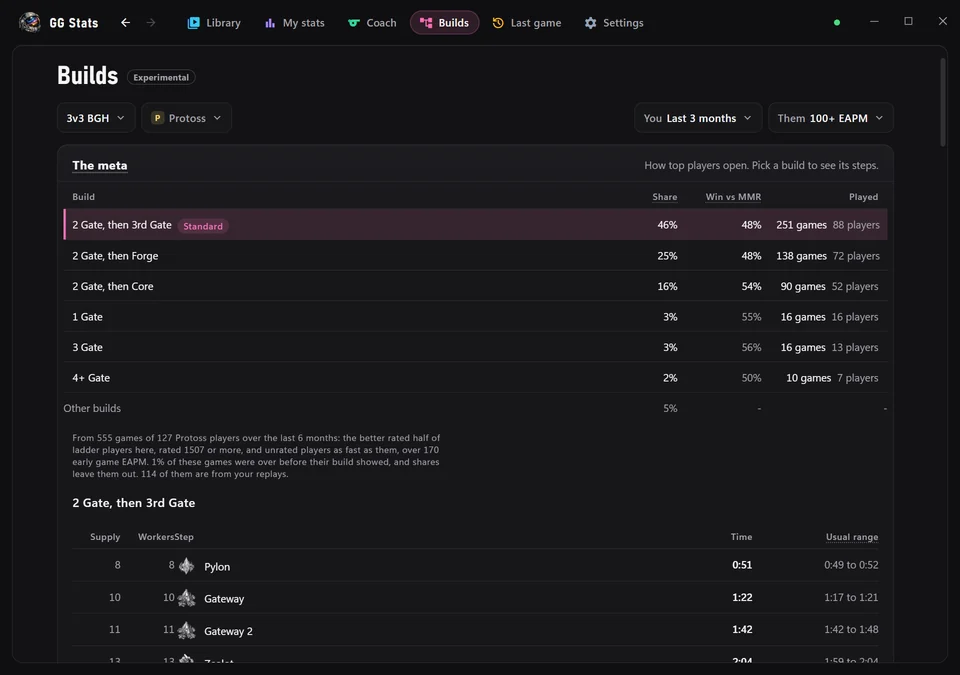
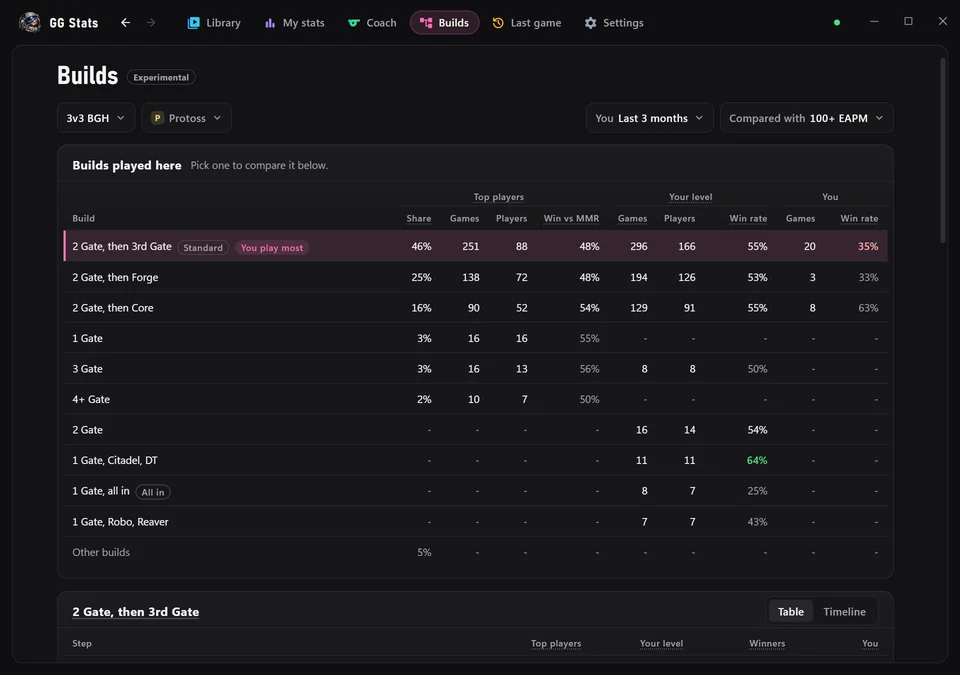
Show the rebuilt Builds page and the coach's renamed filters on the site.

diff --git a/site/index.html b/site/index.html
@@ -475,7 +475,7 @@
           fetchpriority="low"
           decoding="async"
           aria-hidden="true"
-          alt="Builds: how often top players open with each build, and the steps of the most common one." />
+          alt="Builds: each build played here, with how often top players open with it and its win rate at your level and for you." />
       </div>
 
       <div class="tabs" role="tablist" aria-label="Screens">
